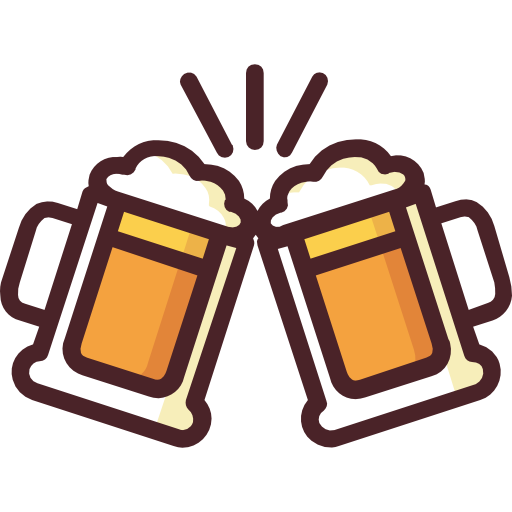
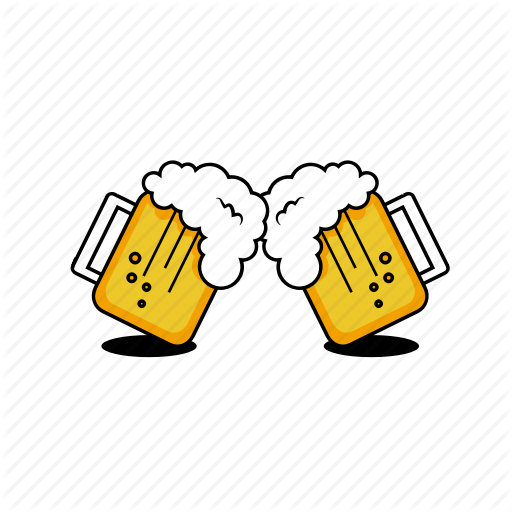
updated css

diff --git a/src/BeerComponent.js b/src/BeerComponent.js
@@ -17,14 +17,14 @@ class BeerComponent extends React.Component {
   }
 
   render() {
-    const beersIcon = <img src={beersLikeIcon} alt="beers icon" style={{height: '30px'}}/>
+    const beersIcon = <img className="beers-icon" src={beersLikeIcon} alt="beers icon"/>
     return (
       <div>
         <ul>{this.props.beers.map((beer) => {
           return (
             <li key={beer.id}>
               {beer.name}
-              <button onClick={() => this.likeButton(beer.id)}>like</button>
+              <button className="like-button" onClick={() => this.likeButton(beer.id)}>like</button>
               <div>
                 {this.state.isLiked ? beersIcon : null}
               </div>
@@ -37,5 +37,3 @@ class BeerComponent extends React.Component {
 }
 
 export default BeerComponent;
-
-//<img src={beersLikeIcon} alt="beers icon" style={{height: '30px'}}/>

diff --git a/src/App.css b/src/App.css
@@ -2,15 +2,18 @@
   text-align: center;
 }
 
-.App-logo {
-  height: 40vmin;
-  pointer-events: none;
+.main-logo {
+  height: 250px;
+  margin-top: 20px;
+  border-radius: 25px;
 }
 
-@media (prefers-reduced-motion: no-preference) {
-  .App-logo {
-    animation: App-logo-spin infinite 20s linear;
-  }
+.like-button {
+  margin-left: 20px;
+}
+
+.beers-icon {
+  height: 100px;
 }
 
 .App-header {
@@ -22,17 +25,4 @@
   justify-content: center;
   font-size: calc(10px + 2vmin);
   color: white;
-}
-
-.App-link {
-  color: #61dafb;
-}
-
-@keyframes App-logo-spin {
-  from {
-    transform: rotate(0deg);
-  }
-  to {
-    transform: rotate(360deg);
-  }
 }

diff --git a/src/App.js b/src/App.js
@@ -26,9 +26,9 @@ class App extends React.Component {
 
   render() {
     return (
-      <div className="App">
+      <div>
         <header className="App-header">
-          <img src={logo} style={{height: '250px', marginTop: '20px'}} alt="logo" />
+          <img className="main-logo" src={logo} alt="logo" />
           <BeerComponent beers={this.state.beers}/>
         </header>
       </div>
